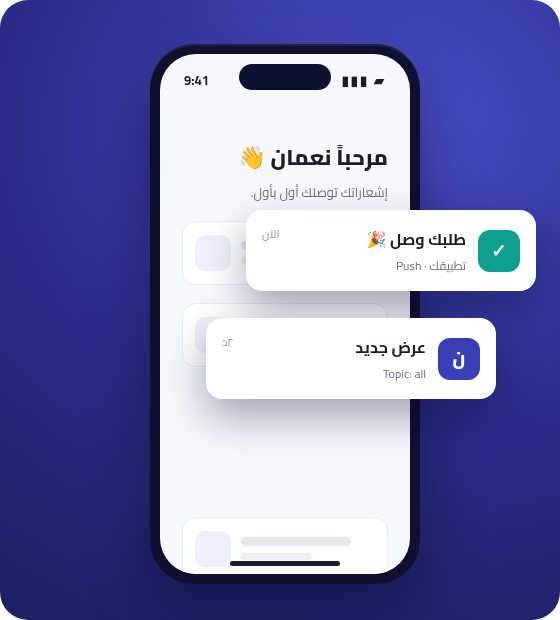
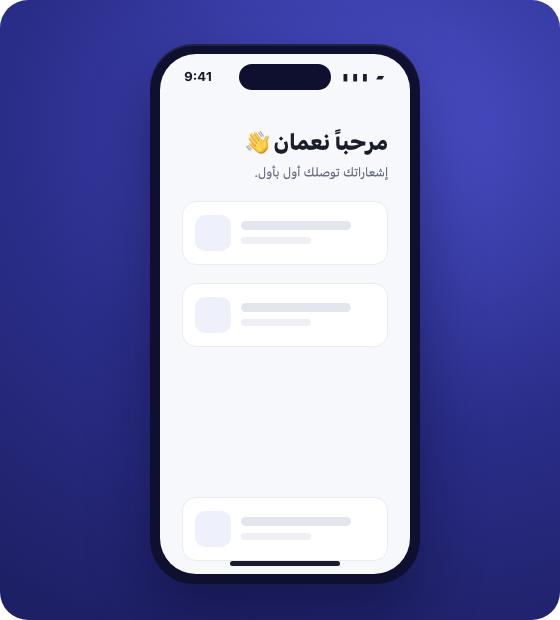
feat(hero): phone-only device PNGs + HTML notification cards with calm float (reduced-motion safe)

diff --git a/src/lib/pages/Home.svelte b/src/lib/pages/Home.svelte
@@ -17,6 +17,8 @@
   </div>
   <div class="ill" aria-hidden="true">
     <img class="phone-img enter d1" src="/hero-phone.png" srcset="/hero-phone.png 1x, /hero-phone@2x.png 2x" width="560" height="620" alt="" />
+    <div class="n n1"><i>✓</i><div><b>{h.n1t}</b><small>{h.n1s}</small></div><em>{h.n1m}</em></div>
+    <div class="n n2"><i>ن</i><div><b>{h.n2t}</b><small>{h.n2s}</small></div><em>{h.n2m}</em></div>
   </div>
 </div></div>
 <section id="how"><div class="w">
@@ -36,8 +38,17 @@
 .hero{background:var(--surface);border-bottom:1px solid var(--border);padding-block:80px;overflow:hidden}
 .grid{display:grid;grid-template-columns:1.1fr .9fr;gap:48px;align-items:center}
 .num{width:36px;height:36px;border-radius:10px;background:var(--tint);color:var(--primary);font-weight:800;display:grid;place-items:center;margin-bottom:14px}
-.ill{display:flex;justify-content:center;align-items:center;max-width:100%}
+.ill{position:relative;container-type:inline-size;width:100%;max-width:440px;margin-inline:auto}
+/* card geometry mirrors designer hero-phone.html (560x620 canvas); physical right matches the non-mirrored device image */
+.n{position:absolute;width:51.8cqw;background:#fff;border-radius:2.9cqw;padding:2.5cqw 2.9cqw;display:flex;gap:2.1cqw;align-items:center;box-shadow:0 3.2cqw 7cqw rgba(10,10,50,.32);animation:float 4.6s ease-in-out infinite alternate;will-change:transform;text-align:start}
+.n i{width:7.5cqw;height:7.5cqw;border-radius:2.1cqw;flex:none;display:grid;place-items:center;color:#fff;font-style:normal;font-weight:800;font-size:3.2cqw}
+.n>div{min-width:0}.n b{display:block;font-size:2.9cqw;color:#1A1D2B;white-space:nowrap;overflow:hidden;text-overflow:ellipsis}.n small{display:block;font-size:2.1cqw;color:#6B7086}
+.n em{font-style:normal;font-size:2cqw;color:#8A8FA3;margin-inline-start:auto;align-self:flex-start}
+.n1{right:4.3cqw;top:33.9%}.n1 i{background:#0E9F8E}
+.n2{right:11.4cqw;top:51.3%;animation-delay:-.9s}.n2 i{background:#3B3FB6}
+@keyframes float{from{transform:translateY(-4px)}to{transform:translateY(4px)}}
+@media (prefers-reduced-motion:reduce){.n{animation:none;transition:opacity .15s}}
 .phone-img{display:block;width:100%;max-width:440px;height:auto}
 @keyframes slideIn{from{opacity:0;transform:translateX(12px)}to{opacity:1;transform:none}}
-@media (max-width:860px){.hero{padding-block:40px}.grid{grid-template-columns:1fr}.phone-img{max-width:320px}}
+@media (max-width:860px){.hero{padding-block:40px}.grid{grid-template-columns:1fr}.ill{max-width:320px}}
 </style>

diff --git a/src/lib/i18n.ts b/src/lib/i18n.ts
@@ -36,7 +36,7 @@ export const dict = {
       title: 'نِداء — منصة عراقية بسيطة لإشعاراتك',
       eyebrow: 'إشعارات Push لتطبيقاتك', h1: 'منصة عراقية بسيطة لإشعاراتك.',
       lead: 'أرسل إشعارات push لتطبيقاتك عبر FCM وAPNs — من الـ API أو الـ SDK أو الكونسول. بدون تعقيد.',
-      n1t: 'طلبك وصل 🎉', n1s: 'تطبيقك · الآن', n2t: 'عرض جديد', n2s: 'Topic: all',
+      n1t: 'طلبك وصل 🎉', n1s: 'تطبيقك · الآن', n2t: 'عرض جديد', n2s: 'Topic: all', n1m: 'الآن', n2m: '٢د',
       howH: 'كيف يشتغل', howSub: 'ثلاث خطوات وتبدي ترسل.',
       steps: [
         { t: 'أنشئ تطبيقاً', d: 'سجّل تطبيقك بالكونسول أو الـ API وخذ مفتاحك.' },
@@ -74,7 +74,7 @@ export const dict = {
       title: 'Nidaa — Simple push notifications, made in Iraq',
       eyebrow: 'Push notifications for your apps', h1: 'A simple Iraqi platform for your notifications.',
       lead: 'Send push notifications to your apps via FCM and APNs — from the API, the SDK or the console. No hassle.',
-      n1t: 'Your order arrived 🎉', n1s: 'Your app · now', n2t: 'New offer', n2s: 'Topic: all',
+      n1t: 'Your order arrived 🎉', n1s: 'Your app · now', n2t: 'New offer', n2s: 'Topic: all', n1m: 'Now', n2m: '2m',
       howH: 'How it works', howSub: 'Three steps and you’re sending.',
       steps: [
         { t: 'Create an app', d: 'Register your app in the console or via the API and get your key.' },
